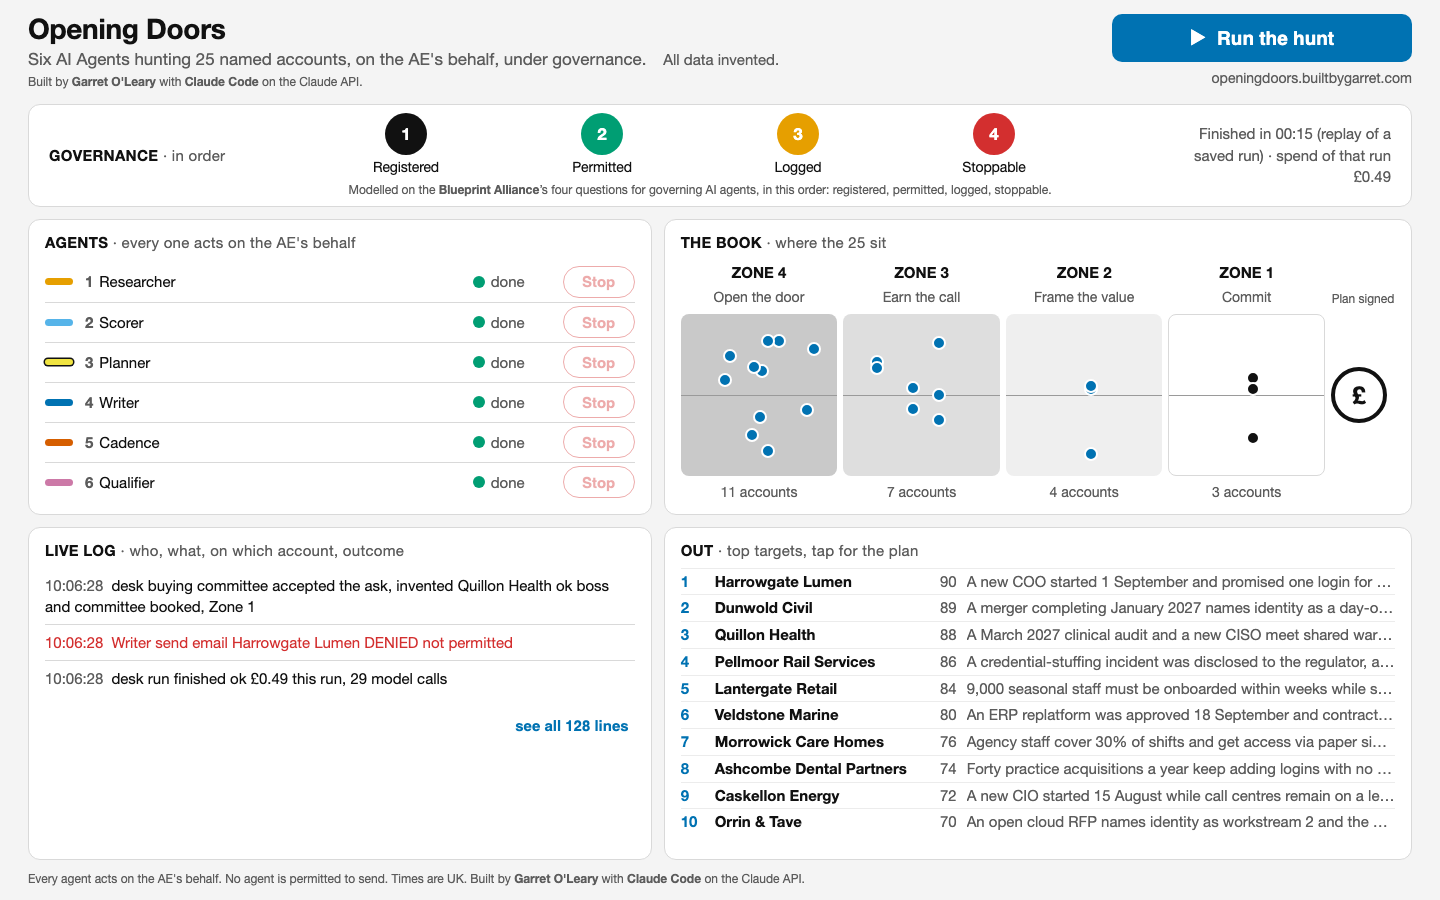
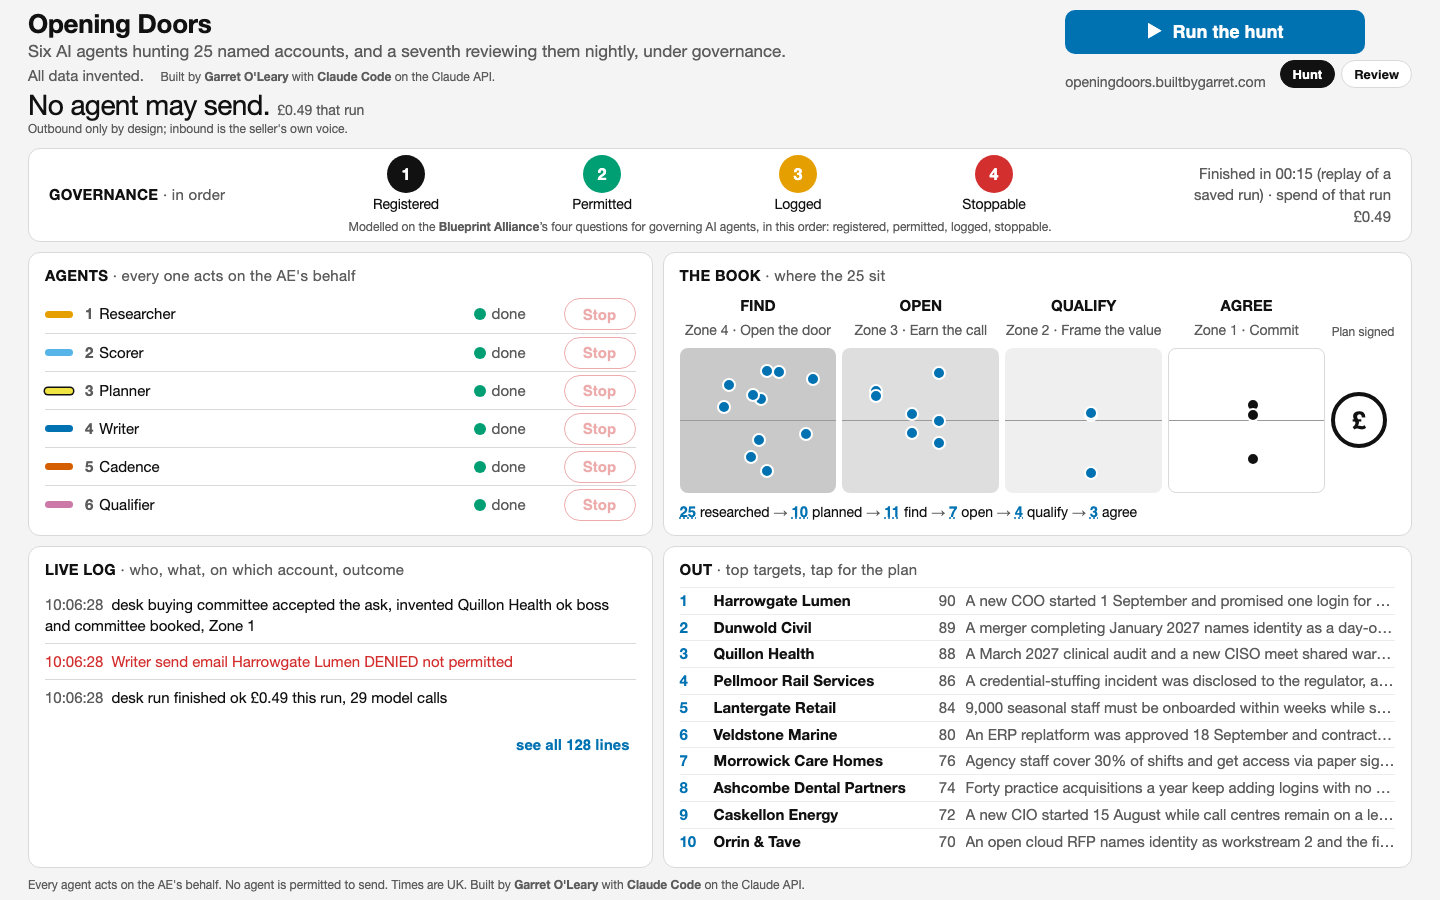
Presentation changes and funnel chain

diff --git a/web/index.html b/web/index.html
@@ -18,7 +18,10 @@
   h1 { font-size: 34px; line-height: 1.1; margin: 0 0 12px; letter-spacing: -0.01em; }
   .desc { margin: 0 0 6px; color: var(--muted); }
   .notice { margin: 0 0 4px; color: var(--muted); font-size: 15px; }
-  .credit { margin: 0 0 20px; color: var(--muted); font-size: 12px; font-family: inherit; }
+  .credit { margin: 0 0 10px; color: var(--muted); font-size: 12px; font-family: inherit; }
+  .headline { margin: 4px 0 2px; font-size: 30px; line-height: 1.1; font-weight: 400; letter-spacing: -0.02em; }
+  .headline .cost { color: var(--muted); font-size: 13px; white-space: nowrap; font-weight: 400; letter-spacing: 0; }
+  .outbound { margin: 0 0 18px; color: var(--muted); font-size: 12px; }
   button.run { display: block; width: 100%; min-height: 56px; border: 0; border-radius: 10px; background: var(--blue); color: #fff;
     font: 600 21px/1 Inter, -apple-system, sans-serif; cursor: pointer; }
   button.run:disabled { opacity: .55; cursor: default; }
@@ -62,6 +65,13 @@
   .zone .zn { font-size: 14px; font-weight: 600; white-space: nowrap; }
   .zone .zc { font-size: 26px; font-weight: 600; line-height: 1.2; margin: 2px 0; font-variant-numeric: tabular-nums; }
   .zone .zl { font-size: 13px; color: var(--muted); line-height: 1.15; }
+  .chain { display: flex; flex-wrap: wrap; align-items: baseline; gap: 2px 6px; margin-top: 12px; font-size: 15px; }
+  .chain .link { white-space: nowrap; }
+  .chain .link button { border: 0; background: none; padding: 0; min-height: 32px; font: 600 16px Inter, -apple-system, sans-serif; color: var(--blue); text-decoration: underline dotted; cursor: pointer; }
+  .chain .arrow { color: var(--muted); }
+  .chainlines { margin-top: 8px; font-size: 14px; }
+  .chainlines li { list-style: none; padding: 3px 0; border-top: 1px solid #eee; }
+  .chainlines li.red { color: var(--red); }
   .out { list-style: none; margin: 0; padding: 0; }
   .out li { border-top: 1px solid var(--line); }
   .out li:first-child { border-top: 0; }
@@ -98,6 +108,7 @@
   footer { color: var(--muted); font-size: 13px; margin-top: 8px; }
   .desktop-only { display: none; }
   .tabs { display: flex; gap: 8px; margin: 0 0 16px; }
+  .desktop-tabs { display: none; }
   .tab { min-height: 44px; padding: 0 18px; border: 1.5px solid var(--line); border-radius: 22px; background: #fff; color: var(--ink); font: 600 15px Inter, -apple-system, sans-serif; cursor: pointer; }
   .tab[aria-selected="true"] { background: var(--ink); color: #fff; border-color: var(--ink); }
   .review { max-width: 680px; }
@@ -132,14 +143,15 @@
   .runreview { display: block; width: 100%; min-height: 48px; border: 0; border-radius: 10px; background: var(--ink); color: #fff; font: 600 17px Inter, -apple-system, sans-serif; cursor: pointer; margin: 0 0 14px; }
   .runreview:disabled { opacity: .55; }
   body.review-mode .hunt { display: none; }
+  body.review-mode .phone-tabs { display: flex; }
   body:not(.review-mode) .reviewpane { display: none; }
-  @media (min-width: 1200px) { body.review-mode main { display: block; height: auto; overflow: auto; } body.review-mode { overflow: auto; } }
+  @media (min-width: 1200px) { body.review-mode main { display: block; height: auto; overflow: auto; } body.review-mode { overflow: auto; } body.review-mode .reviewpane { margin: 0 auto; } body.review-mode .phone-tabs { display: flex; max-width: 680px; margin: 0 auto 16px; } }
 
   /* ---- Desktop, 1200 px and up: one screen, no page scroll. Phone styles above are untouched. ---- */
   @media (min-width: 1200px) {
     html, body { height: 100%; }
     body { overflow: hidden; }
-    main { max-width: none; height: 100vh; padding: 14px 28px; display: grid; gap: 12px;
+    main { max-width: none; height: 100vh; padding: 10px 28px 8px; display: grid; gap: 10px;
       grid-template-columns: 1fr 1.2fr; grid-template-rows: auto auto auto minmax(0, 1fr) auto;
       grid-template-areas: "head head" "gov gov" "agents book" "log out" "foot foot"; }
     footer { grid-area: foot; display: block; margin: 0; font-size: 12px; line-height: 1.2; }
@@ -147,17 +159,15 @@
     .head { grid-area: head; display: flex; justify-content: space-between; align-items: flex-start; gap: 24px; }
     .head h1 { font-size: 28px; margin: 0 0 2px; }
     button.run { min-height: 48px; font-size: 19px; }
-    .head .desc, .head .notice { margin: 0; display: inline; }
-    .head .notice { margin-left: 12px; }
-    .head .credit { margin: 2px 0 0; display: block; }
+    .head .desc { margin: 0; }
     .runbox { text-align: right; flex: 0 0 300px; }
     button.run { width: 300px; }
     .runbox .runline { display: none; }          /* on desktop the timer and spend live in the governance strip */
     .address { font-size: 14px; color: var(--muted); margin-top: 6px; }
     .runbox .limit { display: none; }                    /* on desktop the limit message takes the strip's timer slot */
     .card.gov .stripinfo.limit { background: none; border: 0; color: var(--red); padding: 0; margin: 0; text-align: right; }
-    .card.gov { grid-area: gov; display: grid; grid-template-columns: 180px 1fr 220px; align-items: center; margin: 0; padding: 8px 20px; }
-    .card.gov .light .dot { width: 42px; height: 42px; font-size: 17px; margin-bottom: 4px; }
+    .card.gov { grid-area: gov; display: grid; grid-template-columns: 180px 1fr 220px; align-items: center; margin: 0; padding: 6px 20px; }
+    .card.gov .light .dot { width: 38px; height: 38px; font-size: 16px; margin-bottom: 3px; }
     .card.gov .light .label { font-size: 14px; white-space: nowrap; }
     .card.gov .lights { gap: 24px; max-width: 560px; margin: 0 auto; }
     .card.gov .govline { text-align: center; margin: 6px auto 0; max-width: 720px; }
@@ -166,7 +176,7 @@
     .card.gov .stripinfo { text-align: right; font-size: 15px; color: var(--muted); }
     .card.agentscard { grid-area: agents; margin: 0; overflow: auto; padding: 12px 16px; }
     .card.agentscard h2 { margin-bottom: 8px; }
-    .card.agentscard .agents li { min-height: 40px; }
+    .card.agentscard .agents li { min-height: 38px; }
     .card.agentscard .stop { min-height: 32px; }
     .card.bookcard { grid-area: book; margin: 0; display: flex; flex-direction: column; min-height: 0; padding: 12px 16px; }
     .card.bookcard h2 { margin-bottom: 8px; }
@@ -191,7 +201,25 @@
     .map .bh { grid-row: 1; text-align: center; padding-bottom: 6px; }
     .map .bh b { display: block; font-size: 15px; }
     .map .bh span { font-size: 14px; color: var(--muted); }
-    .map .bc { grid-row: 3; text-align: center; font-size: 14px; color: var(--muted); padding-top: 6px; }
+    .map .bc { display: none; }                        /* on desktop the chain carries the counts */
+    .card.bookcard .phone-chain { display: none; }
+    .card.bookcard #chain-desktop { margin-top: 6px; font-size: 14px; }
+    .card.bookcard #chain-desktop .link button { font-size: 15px; min-height: 24px; }
+    .card.bookcard .chainlines { max-height: 0; overflow: auto; }
+    .card.bookcard .chainlines:not([hidden]) { max-height: 90px; }
+    .phone-tabs { display: none; }
+    .desktop-tabs { display: inline-flex; gap: 6px; margin-left: 14px; vertical-align: middle; }
+    .desktop-tabs .tab { min-height: 28px; padding: 0 12px; font-size: 13px; }
+    .address { display: flex; justify-content: flex-end; align-items: center; }
+    .head .desc { display: block; }
+    .head .notice, .head .credit { display: inline; margin: 0; }
+    .head .credit { margin-left: 12px; }
+    .head .headline { margin: 2px 0 0; font-size: 28px; line-height: 1.1; display: block; }
+    .head .headline .cost { font-size: 14px; }
+    .head .outbound { margin: 0; display: block; font-size: 12px; }
+    .head h1 { font-size: 26px; margin: 0; }
+    button.run { min-height: 44px; font-size: 18px; }
+    .runbox { flex: 0 0 300px; }
     .map .pound { grid-column: 5; grid-row: 2; align-self: center; width: 56px; height: 56px; border-radius: 50%; border: 4px solid #111; background: #fff; display: flex; align-items: center; justify-content: center; font-size: 24px; font-weight: 700; }
     .map .pound-label { grid-column: 5; grid-row: 1; font-size: 12px; color: var(--muted); text-align: center; align-self: end; padding-bottom: 6px; }
     .map .dotsline { position: absolute; left: 0; right: 0; top: 50%; border-top: 1px solid #9a9a9a; }
@@ -203,7 +231,7 @@
 </head>
 <body>
 <main>
-  <div class="tabs" role="tablist">
+  <div class="tabs phone-tabs" role="tablist">
     <button class="tab" id="tab-hunt" role="tab" type="button" aria-selected="true">Hunt</button>
     <button class="tab" id="tab-review" role="tab" type="button" aria-selected="false">Review</button>
   </div>
@@ -233,14 +261,18 @@
   <div class="head hunt">
     <div>
       <h1>Opening Doors</h1>
-      <p class="desc">Six AI Agents hunting 25 named accounts, on the AE's behalf, under governance.</p>
+      <p class="desc">Six AI agents hunting 25 named accounts, and a seventh reviewing them nightly, under governance.</p>
       <p class="notice">All data invented.</p>
       <p class="credit">Built by <b>Garret O'Leary</b> with <b>Claude Code</b> on the Claude API.</p>
+      <p class="headline">No agent may send. <span class="cost" id="lastcost"></span></p>
+      <p class="outbound">Outbound only by design; inbound is the seller's own voice.</p>
     </div>
     <div class="runbox">
       <button class="run" id="run" type="button">&#9654;&nbsp; Run the hunt</button>
       <div class="runline" id="runline"></div>
-      <div class="address desktop-only">openingdoors.builtbygarret.com</div>
+      <div class="address desktop-only">openingdoors.builtbygarret.com
+        <span class="tabs desktop-tabs" role="tablist"><button class="tab" id="tab-hunt-d" type="button" aria-selected="true">Hunt</button><button class="tab" id="tab-review-d" type="button" aria-selected="false">Review</button></span>
+      </div>
       <section class="card" id="limitcard" hidden></section>
     </div>
   </div>
@@ -267,11 +299,13 @@
   <section class="hunt card bookcard" aria-label="The book">
     <h2>THE BOOK <span>&middot; where the 25 sit</span></h2>
     <div class="zones" id="zones"></div>
+    <div class="chain phone-chain" id="chain-phone" aria-label="Funnel chain"></div>
+    <div class="chainlines" id="chainlines-phone" hidden></div>
     <div class="map desktop-only" id="map" aria-hidden="true">
-      <div class="bh" style="grid-column:1"><b>ZONE 4</b><span>Open the door</span></div>
-      <div class="bh" style="grid-column:2"><b>ZONE 3</b><span>Earn the call</span></div>
-      <div class="bh" style="grid-column:3"><b>ZONE 2</b><span>Frame the value</span></div>
-      <div class="bh" style="grid-column:4"><b>ZONE 1</b><span>Commit</span></div>
+      <div class="bh" style="grid-column:1"><b>FIND</b><span>Zone 4 · Open the door</span></div>
+      <div class="bh" style="grid-column:2"><b>OPEN</b><span>Zone 3 · Earn the call</span></div>
+      <div class="bh" style="grid-column:3"><b>QUALIFY</b><span>Zone 2 · Frame the value</span></div>
+      <div class="bh" style="grid-column:4"><b>AGREE</b><span>Zone 1 · Commit</span></div>
       <div class="pound-label">Plan signed</div>
       <div class="band z4" style="grid-column:1"><div class="dotsline"></div></div>
       <div class="band z3" style="grid-column:2"><div class="dotsline"></div></div>
@@ -283,6 +317,8 @@
       <div class="bc" id="bc2" style="grid-column:3"></div>
       <div class="bc" id="bc1" style="grid-column:4"></div>
     </div>
+    <div class="chain desktop-only" id="chain-desktop" aria-label="Funnel chain"></div>
+    <div class="chainlines desktop-only" id="chainlines-desktop" hidden></div>
   </section>
 
   <section class="hunt card outcard" aria-label="OUT">
@@ -373,6 +409,30 @@
     });
   }
   var DESKTOP = window.matchMedia("(min-width: 1200px)");
+  var chainState = null, chainOpen = {};
+  function renderChain(s) {
+    chainState = s;
+    var links = s.chain || [];
+    ["phone", "desktop"].forEach(function (where) {
+      var el = $("chain-" + where); if (!el) return;
+      if (!links.length) { el.innerHTML = ""; return; }
+      el.innerHTML = links.map(function (l, i) {
+        var label = l.key === "researched" || l.key === "planned" ? l.label : l.label.toLowerCase();
+        return (i ? '<span class="arrow">&rarr;</span> ' : "") + '<span class="link"><button type="button" data-chain="' + i + '" data-where="' + where + '" title="' + esc(l.journey || "") + '">' + l.count + "</button> " + esc(label) + "</span>";
+      }).join(" ");
+    });
+  }
+  document.addEventListener("click", function (ev) {
+    var b = ev.target.closest("button[data-chain]"); if (!b || !chainState) return;
+    var i = +b.getAttribute("data-chain"), where = b.getAttribute("data-where"), box = $("chainlines-" + where), link = chainState.chain[i];
+    var key = where + ":" + i;
+    if (chainOpen[where] === key) { box.hidden = true; chainOpen[where] = null; return; }
+    chainOpen[where] = key;
+    var lines = (link.lines || []).map(function (n) { return chainState.log[n - 1] ? { n: n, e: chainState.log[n - 1] } : null; }).filter(Boolean);
+    box.innerHTML = "<p><b>" + link.count + " " + esc(link.label) + (link.journey ? " · " + esc(link.journey) : "") + "</b> · " + lines.length + " audit line" + (lines.length === 1 ? "" : "s") + (lines.length ? "" : ": nothing to count") + "</p><ul>"
+      + lines.map(function (x) { return '<li class="' + (x.e.red ? "red" : "") + '">line ' + x.n + ' · <span class="t">' + esc(x.e.time) + "</span> " + esc(x.e.line) + "</li>"; }).join("") + "</ul>";
+    box.hidden = false;
+  });
   function renderOut(s) {
     var rows = s.out || [], show = (outAll || DESKTOP.matches) ? rows : rows.slice(0, 3);
     $("outempty").hidden = rows.length > 0;
@@ -434,9 +494,13 @@
     $("stripinfo").textContent = s.limit ? s.limit : $("runline").textContent;
     $("stripinfo").className = "stripinfo desktop-only" + (s.limit ? " limit" : "");
     renderMap(s);
+    var VERB = { 4: "Find", 3: "Open", 2: "Qualify", 1: "Agree" };
     $("zones").innerHTML = (s.zones || []).map(function (z) {
-      return '<div class="zone z' + z.zone + '"><div class="zn">Zone ' + z.zone + '</div><div class="zc">' + z.count + '</div><div class="zl">' + esc(z.name) + "</div></div>";
+      return '<div class="zone z' + z.zone + '"><div class="zn">' + VERB[z.zone] + '</div><div class="zc">' + z.count + '</div><div class="zl">' + esc(z.name) + "</div></div>";
     }).join("");
+    renderChain(s);
+    $("lastcost").textContent = (s.running && s.mode === "run") ? "£" + Number(s.cost_live_gbp || 0).toFixed(2) + " so far"
+      : (s.log && s.log.length ? "£" + Number(s.cost_live_gbp || 0).toFixed(2) + (s.mode === "replay" ? " that run" : " last run") : "");
     renderOut(s);
     var lines = s.log, show = expanded ? lines : lines.slice(-3);
     $("logempty").hidden = lines.length > 0;
@@ -470,7 +534,8 @@
   var reviewMode = location.hash === "#review", openEv = {};
   function setTab(review) {
     reviewMode = review; document.body.classList.toggle("review-mode", review);
-    $("tab-hunt").setAttribute("aria-selected", String(!review)); $("tab-review").setAttribute("aria-selected", String(review));
+    ["tab-hunt", "tab-hunt-d"].forEach(function (id) { var e = $(id); if (e) e.setAttribute("aria-selected", String(!review)); });
+    ["tab-review", "tab-review-d"].forEach(function (id) { var e = $(id); if (e) e.setAttribute("aria-selected", String(review)); });
     if (review) { loadDashboard(); loadProposals(); }
   }
   function receipt(list, label) {
@@ -551,8 +616,8 @@
     fetch("/proposals/" + encodeURIComponent(id) + "/" + verb, { method: "POST", headers: { "Content-Type": "application/json" }, body: JSON.stringify(body || {}) })
       .then(function () { loadProposals(); });
   }
-  $("tab-hunt").addEventListener("click", function () { history.replaceState(null, "", location.pathname); setTab(false); });
-  $("tab-review").addEventListener("click", function () { history.replaceState(null, "", "#review"); setTab(true); });
+  ["tab-hunt", "tab-hunt-d"].forEach(function (id) { var e = $(id); if (e) e.addEventListener("click", function () { history.replaceState(null, "", location.pathname); setTab(false); }); });
+  ["tab-review", "tab-review-d"].forEach(function (id) { var e = $(id); if (e) e.addEventListener("click", function () { history.replaceState(null, "", "#review"); setTab(true); }); });
   $("props").addEventListener("click", function (ev) {
     var b = ev.target.closest("button"); if (!b) return;
     var card = b.closest(".prop"), id = card.getAttribute("data-id"), verb = b.getAttribute("data-act");

diff --git a/web/server.py b/web/server.py
@@ -53,6 +53,9 @@ class App:
         self.review_running = False          # the Run night review button
         self.data: Dict = {}                 # the run's results: ranked, plans, drafts, schedule, qualified
         self.zones: Dict[str, int] = {}      # account name -> zone 4..1, moved by the log as the run goes
+        self.zone_lines: Dict[str, int] = {}  # account name -> the log line (1-based) that last moved it
+        self.researched: Dict = {"count": 0, "line": 0}
+        self.planned_lines: List[int] = []
         self.stops: Dict[str, str] = {}      # account name -> last stop reached, for the map's dots
         self.book_size = 0
         self.book_names: List[str] = [a["name"] for a in load_book()["accounts"]]
@@ -98,12 +101,36 @@ class App:
         counts = {4: z4, 3: moved[3], 2: moved[2], 1: moved[1]}
         return [{"zone": z, "name": names[z], "count": counts[z] if self.book_size else 0} for z in (4, 3, 2, 1)]
 
+    def _chain(self) -> List[Dict]:
+        """25 researched, 10 planned, then the zone counts: each count with the log lines it was counted from."""
+        if not self.book_size:
+            return []
+        counts = {z["zone"]: z["count"] for z in self._zone_counts()}
+        by_zone = {z: sorted(ln for n, ln in self.zone_lines.items() if self.zones.get(n) == z) for z in (3, 2, 1)}
+        start = [self.researched["line"]] if self.researched["line"] else []
+        return [
+            {"key": "researched", "label": "researched", "count": self.researched["count"], "lines": [self.researched["line"]] if self.researched["line"] else []},
+            {"key": "planned", "label": "planned", "count": len(self.planned_lines), "lines": list(self.planned_lines)},
+            {"key": "zone4", "label": "Find", "journey": "Zone 4 · Open the door", "count": counts[4], "lines": start},
+            {"key": "zone3", "label": "Open", "journey": "Zone 3 · Earn the call", "count": counts[3], "lines": by_zone[3]},
+            {"key": "zone2", "label": "Qualify", "journey": "Zone 2 · Frame the value", "count": counts[2], "lines": by_zone[2]},
+            {"key": "zone1", "label": "Agree", "journey": "Zone 1 · Commit", "count": counts[1], "lines": by_zone[1]},
+        ]
+
     def snapshot(self) -> Dict:
         with self.lock:
             now = time.time()
             elapsed = int(((self.finished or now) - self.started)) if self.started else 0
+            live = self.spend_gbp
+            if self.running and self.mode == "run" and self.desk is not None:
+                try:
+                    live = self.desk.spend.gbp_this_run                     # the cost so far, while it runs
+                except Exception:
+                    pass
             return {
                 "zones": self._zone_counts(),
+                "chain": self._chain(),
+                "cost_live_gbp": round(live, 2),
                 "dots": [{"name": n, "zone": self.zones.get(n, 4), "stop": self.stops.get(n, "start")} for n in self.book_names] if self.book_size else [],
                 "out": self._out(),
                 "notice": config.INVENTED_DATA_NOTICE,
@@ -144,6 +171,15 @@ class App:
                     self.book_size = int(on_what.split()[0])
                 except (ValueError, IndexError):
                     self.book_size = 0
+                self.researched = {"count": self.book_size, "line": len(self.log)}
+            n_line = len(self.log)                                # this entry's line number, 1-based
+            if who == "Researcher" and what == "read signals" and outcome == "ok":
+                try:
+                    self.researched = {"count": int(on_what.split()[0]), "line": n_line}
+                except (ValueError, IndexError):
+                    pass
+            if who == "Planner" and what == "account plan" and outcome == "ok":
+                self.planned_lines.append(n_line)
             if outcome == "ok" and on_what:                       # the journey: where each account sits
                 if who == "Planner" and what == "account plan":
                     self.stops[on_what] = "planned"
@@ -151,6 +187,7 @@ class App:
                     self.stops[on_what] = what
                 elif who == "Cadence" and what == "T3 given":
                     self.zones[on_what] = 3                       # Zone 3, Earn the call
+                    self.zone_lines[on_what] = n_line
                     self.stops[on_what] = what
                 elif who == "Cadence" and what in ("T4 given", "T5 given"):
                     self.stops[on_what] = what
@@ -167,14 +204,19 @@ class App:
                     else:
                         self.zones[on_what] = 3 if given >= 3 else 4
                         self.stops[on_what] = f"awaiting T{given} given"
+                    if self.zones.get(on_what) != 4:
+                        self.zone_lines[on_what] = n_line
                 elif who == "Cadence" and what.startswith("reply received"):
                     self.zones[on_what] = 3                       # First call, still Zone 3
+                    self.zone_lines[on_what] = n_line
                     self.stops[on_what] = "first call"
                 elif who == "Qualifier" and what == "mutual plan drafted":
                     self.zones[on_what] = 2                       # Zone 2, Frame the value
+                    self.zone_lines[on_what] = n_line
                     self.stops[on_what] = "qualified"
                 elif who == "desk" and what.startswith("buying committee accepted"):
                     self.zones[on_what] = 1                       # Zone 1, Commit
+                    self.zone_lines[on_what] = n_line
                     self.stops[on_what] = "committee"
             if outcome == "ok":                                   # what OUT may now show
                 if who == "Scorer" and what.startswith("ranked"):
@@ -199,6 +241,7 @@ class App:
             self.replay_stopped = set()
             self.data, self.revealed = {}, set()
             self.zones, self.stops, self.book_size = {}, {}, 0
+            self.zone_lines, self.researched, self.planned_lines = {}, {"count": 0, "line": 0}, []
 
     # ---- a real run ----------------------------------------------------------------------------
     def start_run(self) -> bool:

diff --git a/tests/test_web.py b/tests/test_web.py
@@ -261,3 +261,34 @@ def test_a_query_string_does_not_hide_the_page():
     assert h.sent[0][0] == 200 and "text/html" in h.sent[0][1]
     h = Fake("/state?x=1"); h.do_GET()
     assert h.sent[0][0] == 200 and "json" in h.sent[0][1]
+
+
+def test_chain_counts_match_the_state_and_each_links_to_audit_lines():
+    from opening_doors.desk import Desk
+    from tests.test_agents import fake_ask
+    desk = Desk(ask=fake_ask)
+    out = desk.run()
+    entries = [json.loads(l) for l in (desk.run_dir / "audit.jsonl").read_text().splitlines()]
+    app = App()
+    app._reset("replay")
+    for e in entries:
+        app._entry(e["time"], e["who"], e["what"], e["on_what"], e["outcome"], e["detail"])
+    snap = app.snapshot()
+    chain = {c["key"]: c for c in snap["chain"]}
+    zones = {z: sum(1 for v in out["state"].values() if v["zone"] == z) for z in (4, 3, 2, 1)}
+    assert chain["researched"]["count"] == 25 and chain["planned"]["count"] == len(out["plans"]) == 10
+    assert [chain[k]["count"] for k in ("zone4", "zone3", "zone2", "zone1")] == [zones[4], zones[3], zones[2], zones[1]]
+    assert [c["label"] for c in snap["chain"]] == ["researched", "planned", "Find", "Open", "Qualify", "Agree"]
+    assert [chain[k]["count"] for k in ("zone4", "zone3", "zone2", "zone1")] == [z["count"] for z in snap["zones"]]   # one source
+    log = snap["log"]
+    assert log[chain["researched"]["lines"][0] - 1]["what"] == "read signals"
+    assert len(chain["planned"]["lines"]) == 10 and all(log[n - 1]["what"] == "account plan" for n in chain["planned"]["lines"])
+    assert len(chain["zone2"]["lines"]) == zones[2] and all(log[n - 1]["what"] == "mutual plan drafted" for n in chain["zone2"]["lines"])
+    assert len(chain["zone1"]["lines"]) == zones[1] and all(log[n - 1]["what"].startswith("buying committee") for n in chain["zone1"]["lines"])
+    assert len(chain["zone3"]["lines"]) == zones[3]                                                      # one receipt per account sitting there
+    assert chain["zone4"]["lines"] and log[chain["zone4"]["lines"][0] - 1]["what"] == "read signals"
+    assert snap["cost_live_gbp"] == 0.0                                                                    # the stand-in spends nothing
+
+
+def test_live_cost_is_zero_before_a_run():
+    assert App().snapshot()["cost_live_gbp"] == 0.0 and App().snapshot()["chain"] == []
